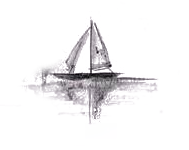
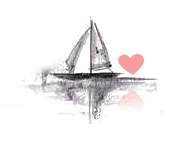
happy

Changed region(s): [[0.6085, 0.3467, 0.7672, 0.5067], [0.6349, 0.5867, 0.7672, 0.6933]]

diff --git a/css/style.css b/css/style.css
@@ -63,7 +63,7 @@ body {
   width: 50%;
   height: 50%;
   margin: 0 0 0 -25%;
-  background: rgba(255,255,255,.75);
+  background: #f2c2c2;
   border-radius: 2px;
   -webkit-transform: transform3d(0, 10px, 0) rotate(45deg);
   -webkit-animation: wave 3s ease infinite 0;
